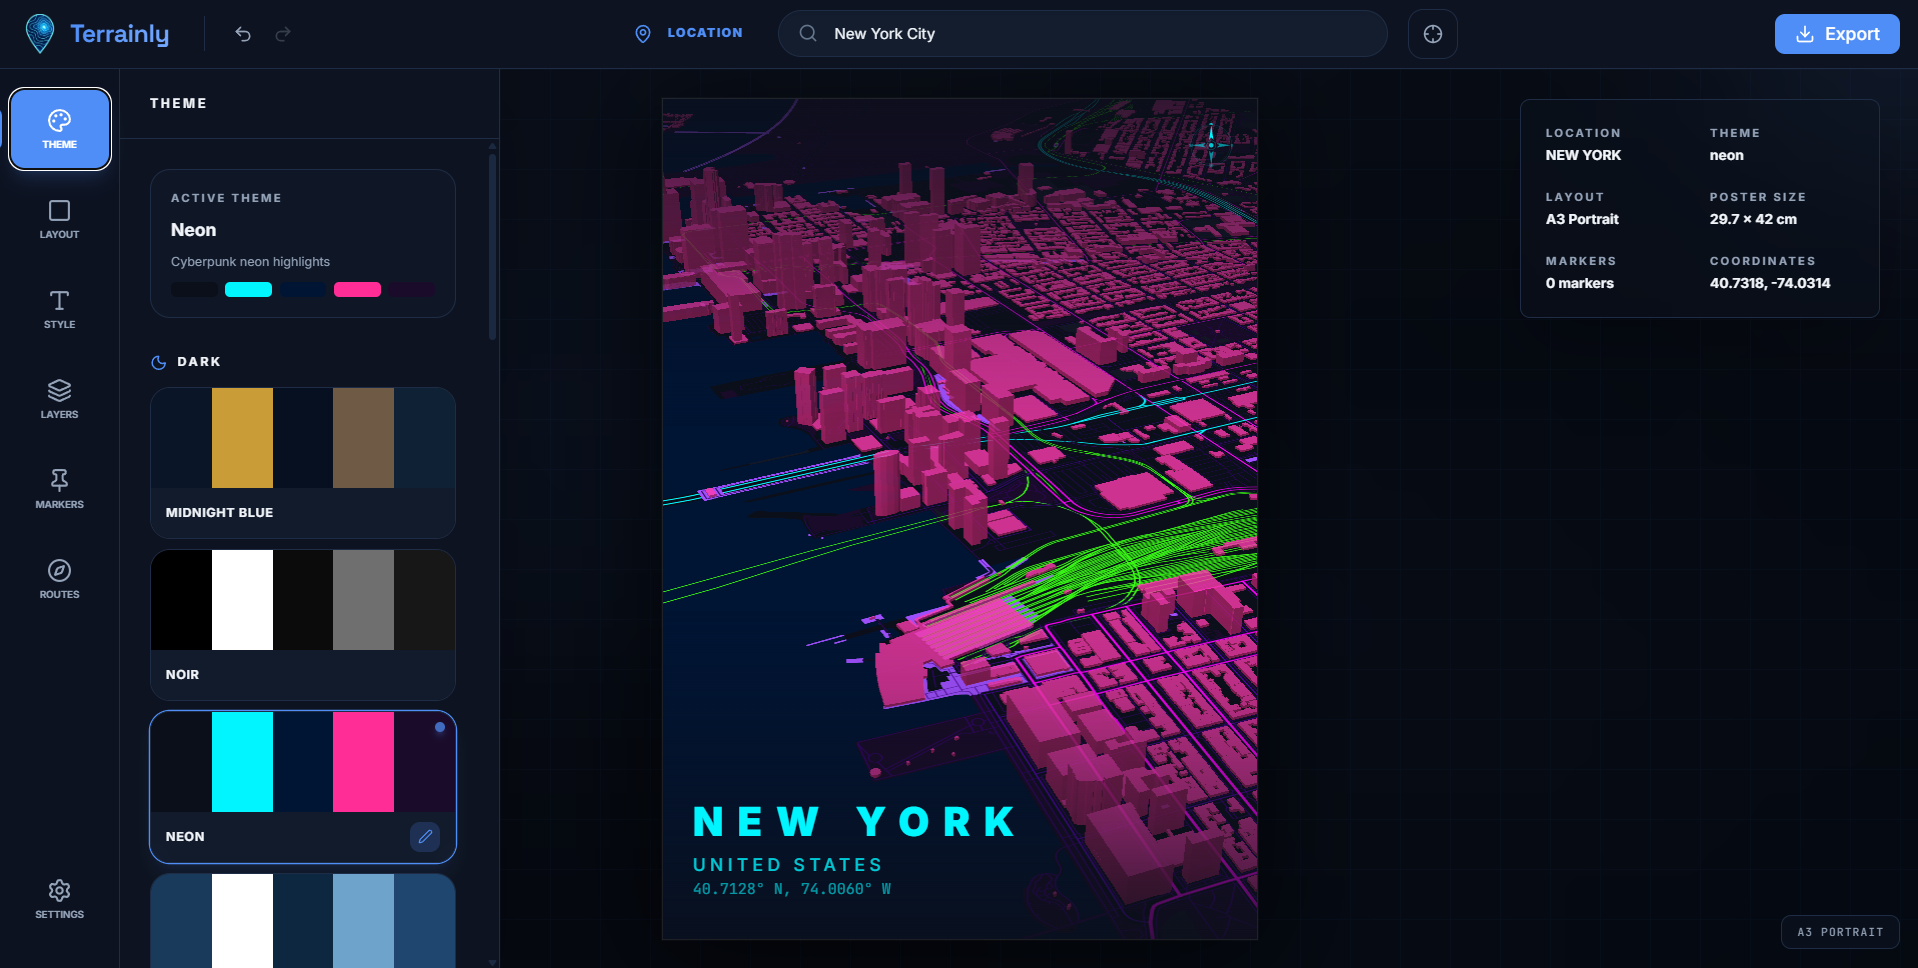
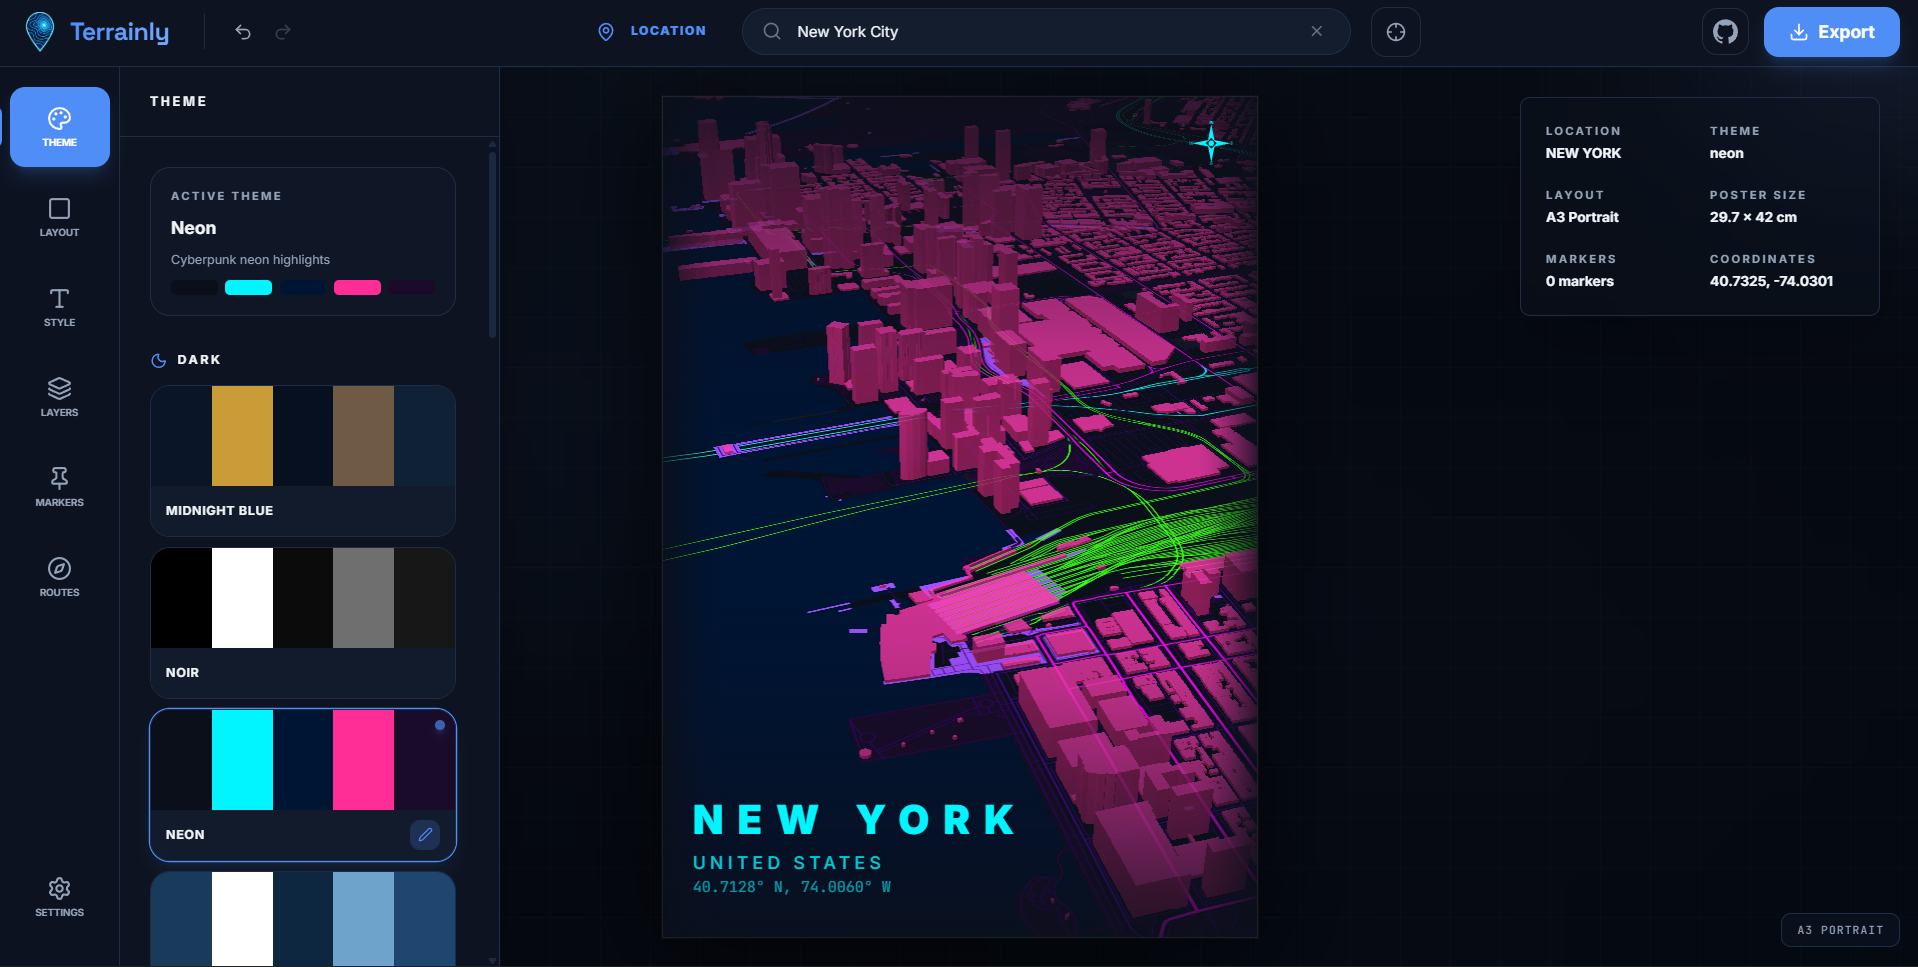
minoe bugs fixed for markers, and theme colors.

diff --git a/components/editor/panels/StylePanel.tsx b/components/editor/panels/StylePanel.tsx
@@ -1,6 +1,6 @@
 "use client";
 
-import React from "react";
+import React, { useState, useEffect } from "react";
 import { useMapStore } from "@/store/mapStore";
 import { Type, AlignLeft, AlignCenter, AlignRight, RotateCcw } from "lucide-react";
 
@@ -24,6 +24,45 @@ const FONT_VALUES: Record<string, string> = {
   "Outfit": "Outfit",
   "JetBrains Mono": "JetBrains Mono",
   "Libre Baskerville": "Libre Baskerville",
+};
+
+const FadeInput = ({ label, value, onChange }: { label: string; value: number; onChange: (v: number) => void }) => {
+  const [displayValue, setDisplayValue] = useState(value.toString());
+
+  // Sync internal state when external value changes (e.g. undo/redo)
+  useEffect(() => {
+    if (value.toString() !== displayValue && document.activeElement?.getAttribute('data-label') !== label) {
+      setDisplayValue(value.toString());
+    }
+  }, [value, label, displayValue]);
+
+  const handleChange = (e: React.ChangeEvent<HTMLInputElement>) => {
+    const newVal = e.target.value.replace(/[^0-9]/g, ''); // Only digits
+    setDisplayValue(newVal);
+    
+    if (newVal !== "") {
+      const num = parseInt(newVal);
+      onChange(Math.min(100, Math.max(0, num)));
+    } else {
+      onChange(0);
+    }
+  };
+
+  return (
+    <div className="space-y-1.5">
+      <label className="text-[10px] font-bold text-text-secondary uppercase tracking-wider">{label}</label>
+      <div className="relative">
+        <input
+          type="text"
+          data-label={label}
+          value={displayValue}
+          onChange={handleChange}
+          className="w-full bg-bg-surface border border-border-subtle rounded-lg px-3 py-2 text-sm text-text-primary focus:outline-none focus:border-accent transition-colors shadow-inner font-mono"
+        />
+        <span className="absolute right-3 top-1/2 -translate-y-1/2 text-[10px] text-text-secondary font-bold">%</span>
+      </div>
+    </div>
+  );
 };
 
 // Reusable toggle
@@ -82,54 +121,26 @@ export const StylePanel = () => {
           {config.showOverlayLayer && (
             <div className="mt-4 space-y-4">
               <div className="grid grid-cols-2 gap-4">
-                <div className="space-y-1.5">
-                  <label className="text-[10px] font-bold text-text-secondary uppercase tracking-wider">Top Fade</label>
-                  <div className="relative">
-                    <input
-                      type="number" min="0" max="100"
-                      value={config.overlayTopFade ?? 0}
-                      onChange={e => setConfig({ overlayTopFade: Math.min(100, Math.max(0, parseInt(e.target.value) || 0)) })}
-                      className="w-full bg-bg-surface border border-border-subtle rounded-lg px-3 py-2 text-sm text-text-primary focus:outline-none focus:border-accent transition-colors [appearance:textfield] [&::-webkit-outer-spin-button]:appearance-none [&::-webkit-inner-spin-button]:appearance-none"
-                    />
-                    <span className="absolute right-3 top-1/2 -translate-y-1/2 text-[10px] text-text-secondary font-bold">%</span>
-                  </div>
-                </div>
-                <div className="space-y-1.5">
-                  <label className="text-[10px] font-bold text-text-secondary uppercase tracking-wider">Bottom Fade</label>
-                  <div className="relative">
-                    <input
-                      type="number" min="0" max="100"
-                      value={config.overlayBottomFade ?? 0}
-                      onChange={e => setConfig({ overlayBottomFade: Math.min(100, Math.max(0, parseInt(e.target.value) || 0)) })}
-                      className="w-full bg-bg-surface border border-border-subtle rounded-lg px-3 py-2 text-sm text-text-primary focus:outline-none focus:border-accent transition-colors [appearance:textfield] [&::-webkit-outer-spin-button]:appearance-none [&::-webkit-inner-spin-button]:appearance-none"
-                    />
-                    <span className="absolute right-3 top-1/2 -translate-y-1/2 text-[10px] text-text-secondary font-bold">%</span>
-                  </div>
-                </div>
-                <div className="space-y-1.5">
-                  <label className="text-[10px] font-bold text-text-secondary uppercase tracking-wider">Left Fade</label>
-                  <div className="relative">
-                    <input
-                      type="number" min="0" max="100"
-                      value={config.overlayLeftFade ?? 0}
-                      onChange={e => setConfig({ overlayLeftFade: Math.min(100, Math.max(0, parseInt(e.target.value) || 0)) })}
-                      className="w-full bg-bg-surface border border-border-subtle rounded-lg px-3 py-2 text-sm text-text-primary focus:outline-none focus:border-accent transition-colors [appearance:textfield] [&::-webkit-outer-spin-button]:appearance-none [&::-webkit-inner-spin-button]:appearance-none"
-                    />
-                    <span className="absolute right-3 top-1/2 -translate-y-1/2 text-[10px] text-text-secondary font-bold">%</span>
-                  </div>
-                </div>
-                <div className="space-y-1.5">
-                  <label className="text-[10px] font-bold text-text-secondary uppercase tracking-wider">Right Fade</label>
-                  <div className="relative">
-                    <input
-                      type="number" min="0" max="100"
-                      value={config.overlayRightFade ?? 0}
-                      onChange={e => setConfig({ overlayRightFade: Math.min(100, Math.max(0, parseInt(e.target.value) || 0)) })}
-                      className="w-full bg-bg-surface border border-border-subtle rounded-lg px-3 py-2 text-sm text-text-primary focus:outline-none focus:border-accent transition-colors [appearance:textfield] [&::-webkit-outer-spin-button]:appearance-none [&::-webkit-inner-spin-button]:appearance-none"
-                    />
-                    <span className="absolute right-3 top-1/2 -translate-y-1/2 text-[10px] text-text-secondary font-bold">%</span>
-                  </div>
-                </div>
+                <FadeInput 
+                  label="Top Fade" 
+                  value={config.overlayTopFade ?? 0} 
+                  onChange={v => setConfig({ overlayTopFade: v })} 
+                />
+                <FadeInput 
+                  label="Bottom Fade" 
+                  value={config.overlayBottomFade ?? 0} 
+                  onChange={v => setConfig({ overlayBottomFade: v })} 
+                />
+                <FadeInput 
+                  label="Left Fade" 
+                  value={config.overlayLeftFade ?? 0} 
+                  onChange={v => setConfig({ overlayLeftFade: v })} 
+                />
+                <FadeInput 
+                  label="Right Fade" 
+                  value={config.overlayRightFade ?? 0} 
+                  onChange={v => setConfig({ overlayRightFade: v })} 
+                />
               </div>
             </div>
           )}

diff --git a/components/editor/panels/BasemapPanel.tsx b/components/editor/panels/BasemapPanel.tsx
@@ -134,7 +134,15 @@ export const BasemapPanel = () => {
           ...config.cartography.grid,
           color: theme.colors.text
         }
-      }
+      },
+      overlays: config.overlays.map(overlay => ({
+        ...overlay,
+        color: theme.colors.roads_major
+      })),
+      routes: config.routes.map(route => ({
+        ...route,
+        color: theme.colors.rail || theme.colors.roads_major
+      }))
     });
   };
 
@@ -148,13 +156,30 @@ export const BasemapPanel = () => {
         const map: Record<string, keyof ThemeColors> = { land:"land", water:"water", roads:"roads_major", buildings:"buildings", parks:"parks" };
         const k = map[layer.id]; return k ? { ...layer, color: newColors[k] } : layer;
       }),
+      overlays: config.overlays.map(overlay => {
+        // If we are updating the primary accent color, update markers too
+        if (key === "roads_major") {
+          return { ...overlay, color: hex };
+        }
+        return overlay;
+      }),
+      routes: config.routes.map(route => {
+        // Rail often used for tracks/routes
+        if (key === "rail") {
+          return { ...route, color: hex };
+        }
+        return route;
+      }),
     });
   };
 
   // Open grid editor
   const openEditor = (themeId: string) => {
     setEditingThemeId(themeId);
-    applyTheme(themeId);
+    // Only apply if it's not the active theme to avoid resetting custom edits
+    if (config.activeThemeId !== themeId) {
+      applyTheme(themeId);
+    }
     setView("grid");
   };
 
@@ -282,9 +307,11 @@ export const BasemapPanel = () => {
     );
   }
 
+  const isCustomized = JSON.stringify(config.themeColors) !== JSON.stringify(activeTheme.colors);
+
   // ── View: Palette list (default) ─────────────────────────────────────────
   const ThemeCard = ({ theme }: { theme: typeof THEMES[number] }) => {
-    const isActive = config.activeThemeId === theme.id;
+    const isActive = config.activeThemeId === theme.id && !isCustomized;
     return (
       <div className={cn("group relative rounded-2xl border overflow-hidden cursor-pointer transition-all",
         isActive ? "border-accent ring-1 ring-accent shadow-lg shadow-accent/10" : "border-border-subtle hover:border-text-muted")}
@@ -310,18 +337,61 @@ export const BasemapPanel = () => {
       </div>
     );
   };
+  
+  // Custom swatches from current themeColors
+  const customSwatches = [
+    config.themeColors.land,
+    config.themeColors.roads_major,
+    config.themeColors.water,
+    config.themeColors.buildings,
+    config.themeColors.parks,
+  ];
 
   return (
     <div className="space-y-7 animate-in fade-in duration-300">
-      {/* Active theme summary */}
-      <div className="p-4 bg-bg-surface/50 border border-border-subtle rounded-2xl space-y-2">
-        <div className="text-[9px] font-bold text-text-secondary uppercase tracking-[0.2em]">Active Theme</div>
-        <div className="text-sm font-bold text-text-primary">{activeTheme.name}</div>
-        <p className="text-[10px] text-text-secondary leading-relaxed">{activeTheme.description}</p>
-        <div className="flex gap-1.5 mt-2">
-          {activeTheme.swatchColors.map((c,i) => <div key={i} className="h-3 flex-1 rounded-sm" style={{ background:c }}/>)}
+      {/* Active theme summary / Custom Theme card */}
+      {isCustomized ? (
+        <div 
+          className="group relative p-4 bg-accent/5 border border-accent/30 rounded-2xl space-y-3 ring-1 ring-accent/20 shadow-lg shadow-accent/5 cursor-pointer hover:bg-accent/10 transition-all"
+          onClick={() => openEditor(config.activeThemeId)}
+        >
+          <div className="flex items-center justify-between">
+            <div className="flex items-center gap-2">
+              <div className="w-2 h-2 rounded-full bg-accent animate-pulse" />
+              <div className="text-[9px] font-bold text-accent uppercase tracking-[0.2em]">Custom Theme</div>
+            </div>
+            <button
+              className="p-1.5 rounded-lg bg-accent/20 text-accent hover:bg-accent/30 transition-all"
+              onClick={e => { e.stopPropagation(); openEditor(config.activeThemeId); }}
+              title="Edit custom colors"
+            >
+              <Edit2 className="w-3.5 h-3.5"/>
+            </button>
+          </div>
+          
+          <div>
+            <div className="text-sm font-bold text-text-primary">Based on {activeTheme.name}</div>
+            <p className="text-[10px] text-text-secondary leading-relaxed mt-1">You have modified this theme. Your changes are preserved here.</p>
+          </div>
+
+          <div className="flex gap-1.5 mt-2">
+            {customSwatches.map((c, i) => (
+              <div key={i} className="h-4 flex-1 rounded-md border border-white/10" style={{ background: c }} />
+            ))}
+          </div>
+
+          <div className="absolute -top-2 -right-2 px-2 py-0.5 bg-accent text-white text-[8px] font-bold rounded-full uppercase tracking-tighter shadow-sm">Active</div>
         </div>
-      </div>
+      ) : (
+        <div className="p-4 bg-bg-surface/50 border border-border-subtle rounded-2xl space-y-2">
+          <div className="text-[9px] font-bold text-text-secondary uppercase tracking-[0.2em]">Active Theme</div>
+          <div className="text-sm font-bold text-text-primary">{activeTheme.name}</div>
+          <p className="text-[10px] text-text-secondary leading-relaxed">{activeTheme.description}</p>
+          <div className="flex gap-1.5 mt-2">
+            {activeTheme.swatchColors.map((c,i) => <div key={i} className="h-3 flex-1 rounded-sm" style={{ background:c }}/>)}
+          </div>
+        </div>
+      )}
 
       {/* Dark themes */}
       <div className="space-y-3">

diff --git a/components/editor/TopBar.tsx b/components/editor/TopBar.tsx
@@ -198,9 +198,17 @@ export const TopBar = () => {
             className="w-full bg-bg-surface border border-border-subtle rounded-full py-2.5 pl-11 pr-12 text-xs text-text-primary focus:outline-none focus:border-accent/50 transition-all placeholder:text-text-muted/60 shadow-inner"
           />
           
-          {(query || results.length > 0) && (
+          {(query || results.length > 0 || config.location.label) && (
             <button 
-              onClick={() => { setQuery(""); setResults([]); setShowResults(false); }}
+              onClick={() => { 
+                setQuery(""); 
+                setResults([]); 
+                setShowResults(query === ""); // If already empty query, toggle results; otherwise enter search mode
+                if (query === "") {
+                  // If we are clearing a static label, we just need to ensure query is empty and showResults is true
+                  setShowResults(true);
+                }
+              }}
               className="absolute right-4 top-1/2 -translate-y-1/2 p-1 hover:bg-bg-elevated rounded-full transition-colors"
             >
               <X className="w-3.5 h-3.5 text-text-muted hover:text-text-primary" />
@@ -245,10 +253,26 @@ export const TopBar = () => {
         </div>
       </div>
 
-      <div className="flex items-center gap-2">
+      <div className="flex items-center gap-3">
+        <a 
+          href="https://github.com/MeetGhelani/Terrainly"
+          target="_blank"
+          rel="noopener noreferrer"
+          className="p-2 rounded-xl border border-border-subtle hover:border-accent/50 hover:bg-accent/5 text-text-secondary hover:text-accent transition-all group"
+          title="GitHub Repository"
+        >
+          <svg 
+            viewBox="0 0 24 24" 
+            className="w-5 h-5 fill-current transition-transform group-hover:scale-110"
+            xmlns="http://www.w3.org/2000/svg"
+          >
+            <path d="M12 .297c-6.63 0-12 5.373-12 12 0 5.303 3.438 9.8 8.205 11.385.6.113.82-.258.82-.577 0-.285-.01-1.04-.015-2.04-3.338.724-4.042-1.61-4.042-1.61C4.422 18.07 3.633 17.7 3.633 17.7c-1.087-.744.084-.729.084-.729 1.205.084 1.838 1.236 1.838 1.236 1.07 1.835 2.809 1.305 3.495.998.108-.776.417-1.305.76-1.605-2.665-.3-5.466-1.332-5.466-5.93 0-1.31.465-2.38 1.235-3.22-.135-.303-.54-1.523.105-3.176 0 0 1.005-.322 3.3 1.23.96-.267 1.98-.399 3-.405 1.02.006 2.04.138 3 .405 2.28-1.552 3.285-1.23 3.285-1.23.645 1.653.24 2.873.12 3.176.765.84 1.23 1.91 1.23 3.22 0 4.61-2.805 5.625-5.475 5.92.42.36.81 1.096.81 2.22 0 1.606-.015 2.896-.015 3.286 0 .315.21.69.825.57C20.565 22.092 24 17.592 24 12.297c0-6.627-5.373-12-12-12" />
+          </svg>
+        </a>
         <button 
           onClick={() => setExportModalOpen(true)}
-          className="flex items-center gap-2 px-4 py-1.5 rounded-lg bg-accent hover:bg-accent-hover text-white transition-colors text-sm font-medium">
+          className="flex items-center gap-2 px-5 py-2.5 rounded-xl bg-accent hover:bg-accent-hover text-white transition-all text-sm font-bold shadow-lg shadow-accent/20 hover:shadow-accent/40 active:scale-95"
+        >
           <Download className="w-4 h-4" />
           <span>Export</span>
         </button>

diff --git a/components/editor/panels/RoutesPanel.tsx b/components/editor/panels/RoutesPanel.tsx
@@ -18,7 +18,12 @@ export const RoutesPanel = () => {
       const content = event.target?.result as string;
       const newRoutes = parseGPX(content);
       if (newRoutes.length > 0) {
-        setConfig({ routes: [...config.routes, ...newRoutes] });
+        setConfig({ 
+          routes: [
+            ...config.routes, 
+            ...newRoutes.map(r => ({ ...r, color: config.themeColors.rail || config.themeColors.roads_major }))
+          ] 
+        });
       }
     };
     reader.readAsText(file);

diff --git a/components/editor/panels/OverlaysPanel.tsx b/components/editor/panels/OverlaysPanel.tsx
@@ -44,8 +44,8 @@ export const OverlaysPanel = () => {
       lat: config.location.lat,
       lng: config.location.lng,
       label: iconId.charAt(0).toUpperCase() + iconId.slice(1),
-      icon: iconId, // Critical: store the icon ID
-      color: '#eab308', // Gold color from design
+      icon: iconId, 
+      color: config.themeColors.roads_major, 
       size: 32,
     };
     setConfig({ overlays: [...config.overlays, newOverlay] });

diff --git a/lib/map/overlays.ts b/lib/map/overlays.ts
@@ -4,7 +4,7 @@ import { MapConfig, Overlay, Route } from "@/types/map";
 // Map of icon IDs to their SVG paths
 export const ICON_PATHS: Record<string, string> = {
   default: "M12 22a7 7 0 0 0 7-7c0-2-1-3.9-3-5.5s-3.5-4-4-6.5c-.5 2.5-2 4.9-4 6.5C6 11.1 5 13 5 15a7 7 0 0 0 7 7z",
-  pin: "M15 5l-1.41-1.41A2 2 0 0 0 12.17 3H11V2h-1v1H8.83a2 2 0 0 0-1.42.59L6 5h9z M9 5v1h6V5H9z M12 22V11 M15 11l-1 1H10l-1-1h6z",
+  pin: "M12 17v5 M5 7h14l-2 8H7l-2-8z M12 2a3 3 0 1 0 0 6 3 3 0 0 0 0-6z",
   heart: "M19 14c1.49-1.46 3-3.21 3-5.5A5.5 5.5 0 0 0 16.5 3c-1.76 0-3 .5-4.5 2-1.5-1.5-2.74-2-4.5-2A5.5 5.5 0 0 0 2 8.5c0 2.3 1.5 4.05 3 5.5l7 7Z",
   home: "m3 9 9-7 9 7v11a2 2 0 0 1-2 2H5a2 2 0 0 1-2-2z M9 22V12h6v10",
   star: "m12 2 3.09 6.26L22 9.27l-5 4.87 1.18 6.88L12 17.77l-6.18 3.25L7 14.14 2 9.27l6.91-1.01L12 2z",
@@ -50,7 +50,7 @@ export const updateOverlays = (map: maplibregl.Map, config: MapConfig, markersRe
       const path = document.createElementNS("http://www.w3.org/2000/svg", "path");
       path.setAttribute("d", ICON_PATHS[overlay.icon || 'default'] || ICON_PATHS.default);
       
-      if (['heart', 'star', 'circle', 'square', 'sun', 'moon', 'building', 'target', 'shop', 'flower', 'tree', 'flag'].includes(overlay.icon || '')) {
+      if (['pin', 'heart', 'star', 'circle', 'square', 'sun', 'moon', 'building', 'target', 'shop', 'flower', 'tree', 'flag'].includes(overlay.icon || '')) {
         svg.setAttribute("fill", overlay.color);
         svg.setAttribute("stroke", "white");
         svg.setAttribute("stroke-width", "1");